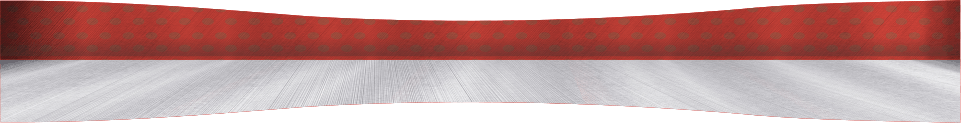
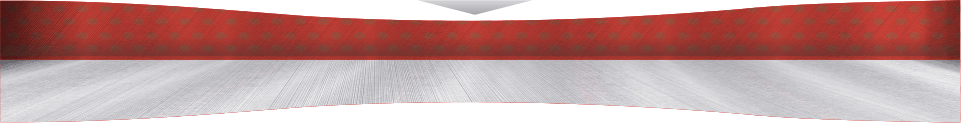
Hover en la busqueda

Changed region(s): [[0.437, 0.0, 0.5619, 0.122]]

diff --git a/layout/css/resultadosBusqueda.css b/layout/css/resultadosBusqueda.css
@@ -118,56 +118,74 @@ span.selectAmarillo{
     width: 850px;
     padding-top: 15px;
 }
-.restauranteHeader{
+.restauranteAbierto .restauranteHeader{
     width: 850px;
     height: 56px;
-    background:url(../imagenes/resultadosBusqueda/HeaderRojo_850x56.png) no-repeat 0 0;
+    background:url(../imagenes/resultadosBusqueda/Header.png) no-repeat 0 0;
 }
-.restauranteHeader .titulo{
+.restauranteAbierto .restauranteHeader .titulo{
     color:#ffd525;
     font-size:20px;
     font-weight: bold;
     margin-left: 20px;
     padding-top: 15px;
 }
-.restauranteHeader .tiposComida{
+.restauranteAbierto .restauranteHeader .tiposComida{
     color:#ffffff;
     font-size:10px;
     margin-left: 20px;
 }
 
-.restauranteHeaderCerrado{
+.restauranteAbiertoHover .restauranteHeader{
     width: 850px;
     height: 56px;
-    background:url(../imagenes/resultadosBusqueda/HeaderGris_850x56.png) no-repeat 0 0;
+    background:url(../imagenes/resultadosBusqueda/HeaderHover.png) no-repeat 0 0;
 }
-.restauranteHeaderCerrado .titulo{
-    color:#ffd525;
-    font-size:20px;
-    font-weight: bold;
-    margin-left: 20px;
-    padding-top: 15px;
-}
-.restauranteHeaderCerrado .tiposComida{
-    color:#ffffff;
-    font-size:10px;
-    margin-left: 20px;
-}
-
-.restauranteHeaderPar{
-    width: 850px;
-    height: 56px;
-    background:url(../imagenes/resultadosBusqueda/HeaderAmarillo_850x56.png) no-repeat 0 0;
-}
-.restauranteHeaderPar .titulo{
+.restauranteAbiertoHover .restauranteHeader .titulo{
     color:#ED3237;
     font-size:20px;
     font-weight: bold;
     margin-left: 20px;
     padding-top: 15px;
 }
-.restauranteHeaderPar .tiposComida{
+.restauranteAbiertoHover .restauranteHeader .tiposComida{
     color:#373435;
+    font-size:10px;
+    margin-left: 20px;
+}
+
+.restauranteCerrado .restauranteHeader{
+    width: 850px;
+    height: 56px;
+    background:url(../imagenes/resultadosBusqueda/HeaderCerrado.png) no-repeat 0 0;
+}
+.restauranteCerrado .restauranteHeader .titulo{
+    color:#ffd525;
+    font-size:20px;
+    font-weight: bold;
+    margin-left: 20px;
+    padding-top: 15px;
+}
+.restauranteCerrado .restauranteHeader .tiposComida{
+    color:#ffffff;
+    font-size:10px;
+    margin-left: 20px;
+}
+
+.restauranteCerradoHover .restauranteHeader{
+    width: 850px;
+    height: 56px;
+    background:url(../imagenes/resultadosBusqueda/HeaderCerradoHover.png) no-repeat 0 0;
+}
+.restauranteCerradoHover .restauranteHeader .titulo{
+    color:#ffd525;
+    font-size:20px;
+    font-weight: bold;
+    margin-left: 20px;
+    padding-top: 15px;
+}
+.restauranteCerradoHover .restauranteHeader .tiposComida{
+    color:#ffffff;
     font-size:10px;
     margin-left: 20px;
 }

diff --git a/layout/css/indexStyle.css b/layout/css/indexStyle.css
@@ -56,7 +56,7 @@
 #bottom_center_buscador{
     margin: 0 auto;
     text-align: center;
-    padding-top: 20px;
+    
 }
 
 #top_buscador_center span.texto_parentesis{
@@ -65,8 +65,9 @@
 }
 
 #lo_nuevo{
-    overflow: hidden;
     text-align: center;
+    margin-left: -30px;
+    margin-top: 5px;
 }
 #lo_nuevo img, #lo_nuevo span, #lo_nuevo div{
     text-align: center;
@@ -80,6 +81,7 @@
 
 #lo_nuevo #lo_nuevo_texto{
     text-align: center;
+    margin-top: -15px;
 }
 
 #lo_nuevo #lo_nuevo_texto .span_big{
@@ -87,7 +89,7 @@
     font-size: 23.5px;
     text-align: center;
     font-weight: bold;
-    line-height: 12px;
+    line-height: 6px;
 }
 
 

diff --git a/js/resultadosBusqueda.js b/js/resultadosBusqueda.js
@@ -92,6 +92,20 @@ $(document).ready(function(){
     $("#colonias").click(function(){
         $(this).val("");
     });
+    
+    $(".restaurante").hover(function(){
+        if($(this).hasClass("restauranteAbierto")){
+            $(this).addClass("restauranteAbiertoHover");
+        }else{
+            $(this).addClass("restauranteCerradoHover");
+        }       
+    },function(){
+        if($(this).hasClass("restauranteAbierto")){
+            $(this).removeClass("restauranteAbiertoHover");
+        }else{
+            $(this).removeClass("restauranteCerradoHover");
+        }
+    });
 });
 
 function filtrarRestaurantes(){

diff --git a/modulos/principal/vistas/principal.php b/modulos/principal/vistas/principal.php
@@ -20,21 +20,22 @@ require_once('layout/headers/headFin.php');
                 <span id="estoy_en">Estoy en:</span><br>
                 <input class="ui-corner-all" id="colonias" name="colonia" type="text" placeholder="¡Escribe tu colonia!"><br>
                 <input type="hidden" id="idColonia" name="idColonia">
-                <?php
-                if (isset($_GET['coloniaNoReconocida'])) {
-                    ?>
-                    <div style="color:red;">
-                        ¡Oopps! No pudimos encontrar tu colonia. ¿Te aseguraste de seleccionarla de nuestra lista? Por favor ingrésala nuevamente y selecciona tu colonia de la lista desplegable. ¡Gracias!
-                    </div>
-                    <?php
-                }
-                ?>
+
                 <div id="bottom_center_buscador">
+                    <div style="color:red; height: 40px;">
+                        <?php
+                        if (isset($_GET['coloniaNoReconocida'])) {
+                            ?>
+
+                            ¡Oopps! No pudimos encontrar tu colonia. Por favor ingrésala nuevamente y selecciona tu colonia de la lista desplegable. ¡Gracias!
+
+                            <?php
+                        }
+                        ?>
+                    </div>
                     <span>Hoy se me antoja:</span>
                     <br>
                     <span class="texto_parentesis">(Deja todos en blanco para ver todos los tipos de comida)</span>
-                    <br>
-                    <img src="layout/imagenes/Home/img_flecha_115x15.png">
                 </div>
             </div>
             <div class="span3">
@@ -49,7 +50,7 @@ require_once('layout/headers/headFin.php');
                                 <span class="span12 span_big">a Domicilio</span>
                             </div>
                             <div class="row-fluid">
-                                <span class="span12" style="margin-top: -9px;">con un solo click!</span>
+                                <span class="span12" style="margin-top: -13px;">con un solo click!</span>
                             </div>
                         </div>
                     </div>

diff --git a/modulos/pedidos/vistas/resultadosBusqueda.php b/modulos/pedidos/vistas/resultadosBusqueda.php
@@ -8,7 +8,7 @@ require_once('layout/headers/headFin.php');
 <?php
 if (sizeof($restaurantes) <= 0) {
     ?>
-    <div id="modalDialogNoHayRestaurantes" title="Ohh-ohh... Ya nos cachaste...">
+    <div id="modalDialogNoHayRestaurantes" title="Ohh-ohh... Ya nos cachaste..." style="display: none;">
         <div class="row-fluid">
             <div class="span12">
                 <p>
@@ -180,12 +180,10 @@ if (sizeof($restaurantes) <= 0) {
             <?php
             if (!$restauranteAbierto) {
                 ?>
-                <div class="restauranteHeaderCerrado">
+                <div class="restauranteHeader">
                     <?php
-                } else if ($i % 2 == 0) {
-                    echo '<div class="restauranteHeader row-fluid">';
                 } else {
-                    echo '<div class="restauranteHeaderPar">';
+                    echo '<div class="restauranteHeader row-fluid">';
                 }
                 ?>
                 <div class="titulo">
@@ -292,13 +290,13 @@ if (sizeof($restaurantes) <= 0) {
                             <div class="tipoPago row-fluid">
                                 <?php
                                 if ($restaurante->formaPago == 0) {
-                                    echo 'efectivo';
+                                    echo '<img src="layout/imagenes/resultadosBusqueda/Efectivo.png"/>';
                                 }
                                 if ($restaurante->formaPago == 1) {
                                     echo '<img src="layout/imagenes/resultadosBusqueda/tipoPagos_190x20.png"/>';
                                 }
                                 if ($restaurante->formaPago == 2) {
-                                    echo 'efectivo';
+                                    echo '<img src="layout/imagenes/resultadosBusqueda/Efectivo.png"/>';
                                     echo '<img src="layout/imagenes/resultadosBusqueda/tipoPagos_190x20.png"/>';
                                 }
                                 ?>

diff --git a/modulos/platillos/vistas/mostrarPlatillosPedido.php b/modulos/platillos/vistas/mostrarPlatillosPedido.php
@@ -5,7 +5,7 @@ require_once('layout/headers/headAutocompleteColonias.php');
 require_once('layout/headers/headSocialMedia.php');
 require_once('layout/headers/headFin.php');
 ?>
-<div id="modalDialogIngredientes" title="Aquí es al gusto">
+<div id="modalDialogIngredientes" title="Aquí es al gusto" style="display:none;">
 </div>
 <div id="buscadorContainer" class="row-fluid">
     <form method="get" action="pedidos.php">
@@ -158,13 +158,13 @@ if ($habilitado) {
                     <p class="textoDireccion">
                         <?php
                         if ($restaurante->formaPago == 0) {
-                            echo 'efectivo';
+                            echo '<img src="layout/imagenes/resultadosBusqueda/Efectivo.png"/>';
                         }
                         if ($restaurante->formaPago == 1) {
                             echo '<img src="layout/imagenes/resultadosBusqueda/tipoPagos_190x20.png"/>';
                         }
                         if ($restaurante->formaPago == 2) {
-                            echo 'efectivo';
+                            echo '<img src="layout/imagenes/resultadosBusqueda/Efectivo.png"/>';
                             echo '<img src="layout/imagenes/resultadosBusqueda/tipoPagos_190x20.png"/>';
                         }
                         ?>

diff --git a/layout/headers/headFin.php b/layout/headers/headFin.php
@@ -82,7 +82,7 @@
             $mensaje = getSessionMessage();
             if (isset($mensaje)) {
                 ?>
-                <div id="modalDialogSessionMessage">
+                <div id="modalDialogSessionMessage" style="display:none">
                     <?php echo $mensaje; ?>
                 </div>
                 <script>
@@ -102,7 +102,7 @@
             }
             ?>
             <!-- Dialogo para recomendar nuevos restaurantes -->
-            <div id="modalDialogRecomendarRestaurante" title="Recomendar un restaurante">
+            <div id="modalDialogRecomendarRestaurante" title="Recomendar un restaurante" style="display: none;">
                 <div class="row-fluid"><div class="span12"></div></div>
                 <div class="row-fluid">
                     <div class="span12">

diff --git a/modulos/principal/vistas/login.php b/modulos/principal/vistas/login.php
@@ -58,7 +58,7 @@ if (isset($_SESSION['email'])) {
     </div>
 
 
-    <div id="modalDialogLogin" title="Bienvenido">
+    <div id="modalDialogLogin" title="Bienvenido" style="display: none;">
         <div class="row-fluid">
             <h4><strong>Inicia Sesión</strong></h4>
             <form action="login.php?a=login" method="post">
